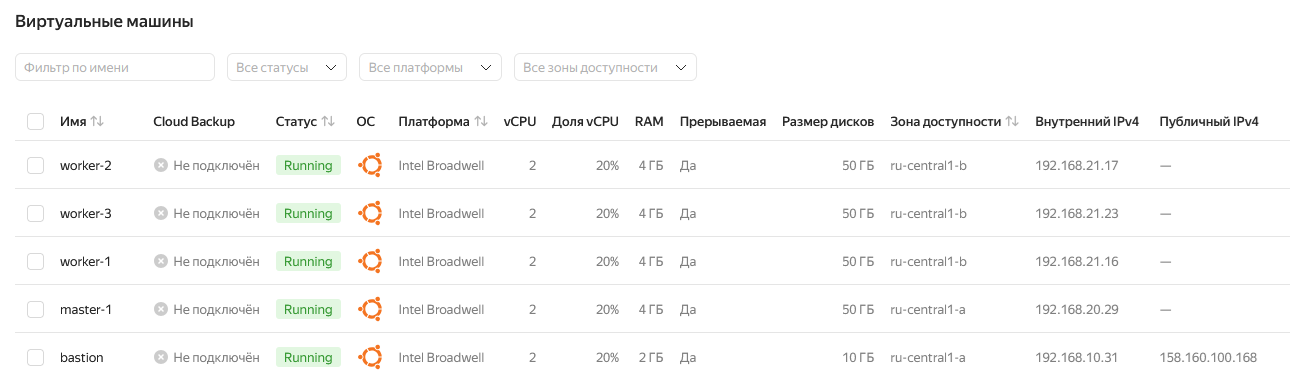
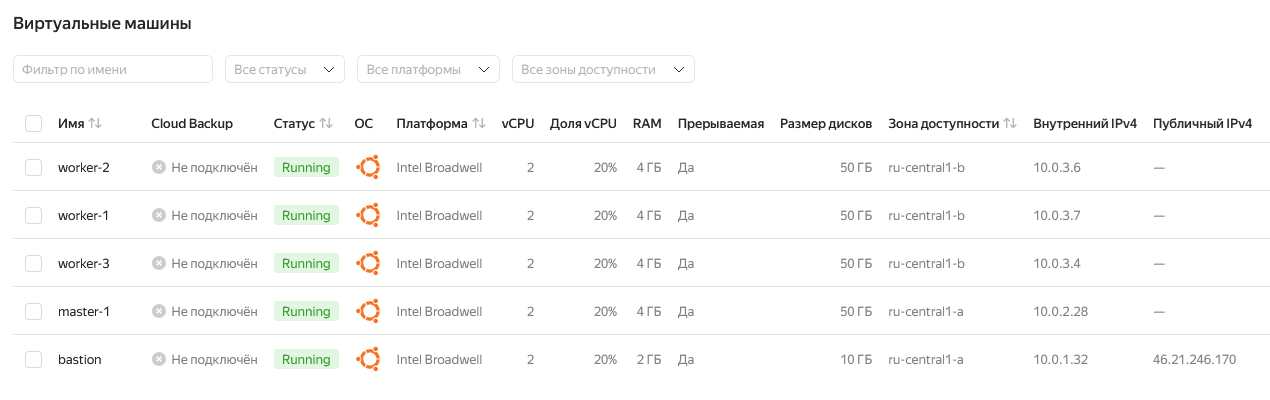
k8s setup done

diff --git a/README.md b/README.md
@@ -116,14 +116,55 @@ terraform init -backend-config="access_key=$ACCESS_KEY" -backend-config="secret_
   ![cluster.png](./terraform/src/k8s/images/cluster.png)
 
   >После развёртывания облачной инфраструктуры, приступаю к развёртыванию Kubernetes кластера. Разворачивать буду из репозитория Kubespray со своей локальной машины.
+  >Запуск плейбука для установки идет на хосте бастиона. Сначала прокидываем в него ssh ключ - это нужно для корректной работы скриптов установки ansible. После установки этот ключ необходимо удалить!
 
+  ```
+  scp /home/dervish/.ssh/id_ed25519 ubuntu@46.21.246.170:.ssh/id_ed25519
+  ```
+  >Далее в папке со скачаным ранее репозиторием kubespray создаем и активируем виртуальное окружение и устанавливаем необходимые для работы зависимости
 
-  
+  ```
+  cd kubespray/
+  python3 -m venv venv
+  source venv/bin/activate
+  python3 -m pip install -r requirements.txt
+  ```
+  >Теперь все готово для установки кластера, запускаем плейбук
+
+  ```
+  ansible-playbook -i ~/hosts.yaml cluster.yml -b -v
+  ```
+
+  ![install.png](./terraform/src/k8s/images/install.png)
+
+  >После успешной установки подключаемся к мастер-ноде и проверяем работоспособность кластера
+
+  ```
+  ssh -i ~/.ssh/id_ed25519 -J ubuntu@46.21.246.170 ubuntu@10.0.2.28
+  ```
+
 Ожидаемый результат:
 
 1. Работоспособный Kubernetes кластер.
 2. В файле `~/.kube/config` находятся данные для доступа к кластеру.
 3. Команда `kubectl get pods --all-namespaces` отрабатывает без ошибок.
 
+![control.png](./terraform/src/k8s/images/control.png)
 
+---
+### Создание тестового приложения
 
+Для перехода к следующему этапу необходимо подготовить тестовое приложение, эмулирующее основное приложение разрабатываемое вашей компанией.
+
+Способ подготовки:
+
+1. Рекомендуемый вариант:  
+   а. Создайте отдельный git репозиторий с простым nginx конфигом, который будет отдавать статические данные.  
+   б. Подготовьте Dockerfile для создания образа приложения.  
+2. Альтернативный вариант:  
+   а. Используйте любой другой код, главное, чтобы был самостоятельно создан Dockerfile.
+
+Ожидаемый результат:
+
+1. Git репозиторий с тестовым приложением и Dockerfile.
+2. Регистри с собранным docker image. В качестве регистри может быть DockerHub или [Yandex Container Registry](https://cloud.yandex.ru/services/container-registry), созданный также с помощью terraform.
